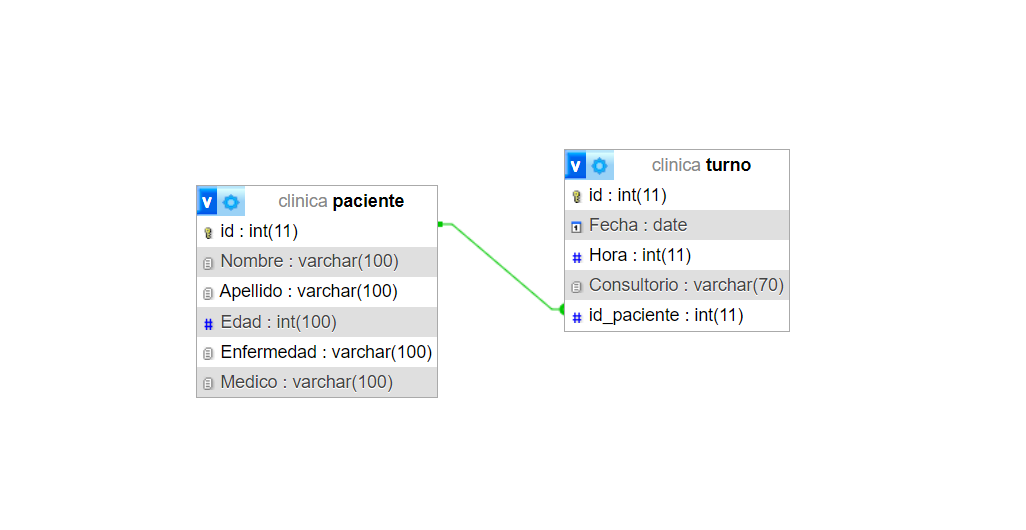
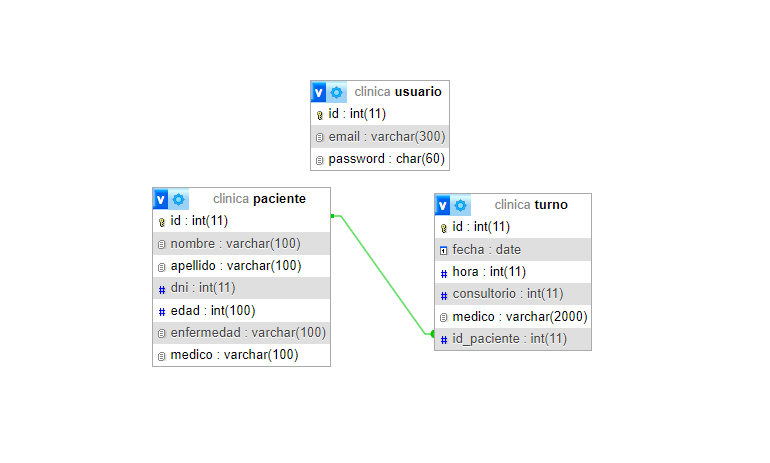
Implementación del auto-deploy + actualización del readme.

Changed region(s): [[0.187, 0.1512, 0.7792, 0.7862], [0.4987, 0.6048, 0.5299, 0.6652]]

diff --git a/app/models/modelDeploy.php b/app/models/modelDeploy.php
@@ -1,0 +1,105 @@
+<?php 
+require_once './config.php';
+
+abstract class modelDeploy {
+
+    protected $db;
+
+    public function __construct(){
+        $this->db = $this->db = new PDO(
+            "mysql:host=".MYSQL_HOST .";dbname=".MYSQL_DB.";charset=utf8", MYSQL_USER, MYSQL_PASS);
+            $this->_deployUser();
+            $this->_deployTurns();
+            $this->_deployCategory(); 
+    }
+
+    private function _deployUser() {
+        $query = $this->db->query("SHOW TABLES LIKE 'usuario'");
+        $tables = $query->fetchAll();
+
+        if (count($tables) == 0) {
+
+            $sql =<<<SQL
+
+            CREATE TABLE `usuario` (
+            `id` int(11) NOT NULL,
+            `email` varchar(300) NOT NULL,
+            `password` char(60) NOT NULL
+              PRIMARY KEY (`id`),
+              UNIQUE KEY `email` (`email`),
+              ) ENGINE=InnoDB DEFAULT CHARSET=utf8mb4 COLLATE=utf8mb4_general_ci;
+            SQL;
+
+            $this->db->query($sql);
+
+            $insertSql = "INSERT INTO usuario (`id`, `email`, `password`) VALUES (?, ?, ?)"; // chequear acá
+            $this->db->prepare($insertSql)->execute(['webadmin', '$2y$10$mrjZzr7CGZI7ckIaF4qWaubeg7QutszR6vQ91ZYA58Ruo79kk1ply']);
+        }
+    }
+
+    private function _deployTurns() {
+        $query = $this->db->query("SHOW TABLES LIKE 'turno'");
+        $tables = $query->fetchAll();
+
+        if (count($tables) == 0) {
+
+            $sql = <<<SQL
+
+            CREATE TABLE `turno` (
+            `id` int(11) NOT NULL,
+            `fecha` date NOT NULL,
+            `hora` int(11) NOT NULL,
+            `consultorio` int(11) NOT NULL,
+            `medico` varchar(2000) NOT NULL,
+            `id_paciente` int(11) NOT NULL,
+
+              PRIMARY KEY (`id`),
+              KEY `id_paciente` (`id_paciente`),
+              CONSTRAINT `fk_paciente` FOREIGN KEY (`id_paciente`) REFERENCES `id` (`id`) ON DELETE CASCADE
+              ) ENGINE=InnoDB DEFAULT CHARSET=utf8mb4 COLLATE=utf8mb4_general_ci;
+            SQL;
+            $this->db->query($sql);
+    
+            $insertSql = "INSERT INTO `turno` (`id`, `fecha`, `hora`, `consultorio`, `medico`, `id_paciente`) VALUES
+                        (1, '2024-09-27', 13, 3, 'Mariana Solis', 3),
+                        (2, '2024-09-28', 12, 2, 'Juan Carlos Gomez', 1),
+                        (3, '2024-09-30', 14, 1, 'Fausto Herrera', 4),
+                        (4, '2024-09-29', 11, 2, 'Mariana Solis', 2)";
+                        
+            $this->db->prepare($insertSql)->execute();
+        }
+    }
+
+    private function _deployCategory() {
+        $query = $this->db->query("SHOW TABLES LIKE 'paciente'");
+        $tables = $query->fetchAll();
+
+        if (count($tables) == 0) {
+
+            $sql = <<<SQL
+
+            CREATE TABLE `paciente` (
+            `id` int(11) NOT NULL,
+            `nombre` varchar(100) NOT NULL,
+            `apellido` varchar(100) NOT NULL,
+            `dni` int(11) NOT NULL,
+            `edad` int(100) NOT NULL,
+            `enfermedad` varchar(100) NOT NULL,
+            `medico` varchar(100) NOT NULL
+
+              PRIMARY KEY (`id`)
+            ) ENGINE=InnoDB DEFAULT CHARSET=utf8mb4 COLLATE=utf8mb4_general_ci;
+            SQL;
+    
+            $this->db->query($sql);
+    
+            $insertSql = "INSERT INTO `paciente` (`id`, `nombre`, `apellido`, `dni`, `edad`, `enfermedad`, `medico`) VALUES
+                        (1, 'Agustin', 'Ciantini', 1234567, 19, 'Apendicitis', 'Juan Carlos Gomez'),
+                        (2, 'Jazmin', 'Barragan', 1234568, 19, 'Fractura', 'Mariana Solis'),
+                        (3, 'Juan Pablo', 'Chiclana', 1234560, 19, 'Congestion', 'Mariana Solis'),
+                        (4, 'Francisco', 'Cocirio', 12345679, 18, 'Larinjitis', 'Fausto Herrera')";
+    
+            $this->db->prepare($insertSql)->execute();
+        }
+    }
+}

diff --git a/app/controllers/controllerTurns.php b/app/controllers/controllerTurns.php
@@ -3,6 +3,7 @@ require_once './app/models/modelTurns.php';
 require_once './app/views/viewTurns.php';
 require_once './app/models/modelCategory.php';
 require_once './app/views/viewCategory.php';
+require_once './app/models/modelDeploy.php';
 
 class controllerTurns{
     private $view;

diff --git a/app/models/modelCategory.php b/app/models/modelCategory.php
@@ -1,5 +1,9 @@
 <?php
+require_once './app/models/modelDeploy.php';
+require_once './config.php';
+
 class modelCategory{
+
     private $db;
     public function __construct(){
         $this->db = new PDO('mysql:host=localhost;dbname=clinica;charset=utf8', 'root', '');

diff --git a/app/controllers/controllerCategory.php b/app/controllers/controllerCategory.php
@@ -1,6 +1,7 @@
 <?php
 require_once './app/models/Modelcategory.php';
 require_once './app/views/viewCategory.php';
+require_once './app/models/modelDeploy.php';
 
 class controllerCategory{
     private $view;

diff --git a/app/views/viewAuth.php b/app/views/viewAuth.php
@@ -7,7 +7,4 @@ class AuthView {
         require './templates/login.phtml';
     }
 
-    public function showSignup($error = '') {
-        require './templates/form_signup.phtml';          //DUDA
-    }
 }

diff --git a/app/controllers/auth.controller.php b/app/controllers/auth.controller.php
@@ -1,6 +1,7 @@
 <?php
 require_once './app/models/modelUser.php';
 require_once './app/views/viewAuth.php';
+require_once './app/models/modelDeploy.php';
 
 class AuthController {
     private $model;

diff --git a/app/models/modelTurns.php b/app/models/modelTurns.php
@@ -1,4 +1,6 @@
 <?php
+require_once './app/models/modelDeploy.php';
+require_once './config.php';
 
 class modelTurns{
     private $db;

diff --git a/config.php b/config.php
@@ -1,0 +1,5 @@
+<?php
+const MYSQL_USER = 'root';
+const MYSQL_PASS = '';
+const MYSQL_DB = 'clinica';
+const MYSQL_HOST = 'localhost';

diff --git a/app/models/modelUser.php b/app/models/modelUser.php
@@ -1,4 +1,5 @@
 <?php
+require_once './app/models/modelDeploy.php';
 
 class UserModel {
     private $db;

diff --git a/README.md b/README.md
@@ -8,14 +8,14 @@
 
 Nuestra web tratará sobre un turnero de una clínica médica, que contará en su base de datos con dos tablas (turno y paciente) con una relación entre sí, mediante el id de ambos. Se podrán observar los turnos ya otorgados a su respectivo paciente junto a su médico asignado, además nuestra web permite gestionarlos (agregar, eliminar y editar).
 
-# Guía para cargar database:
+## Guía para cargar database:
 
-Para cargar nuestro sitio en un servidor con Apache o MySQL, primero, deberas cargar nuestra base de datos "clinica" en MySQL. Podes hacer esto importando el archivo .SQL a través de la interfaz de phpMyAdmin o mediante el comando mysql en la terminal.
+Para cargar nuestro sitio en un servidor Apache o MySQL, primero, deberas tener instalado XAMPP. Una vez descargado, tendrás que cargar nuestra base de datos "clinica" en phpMyAdmin (las tablas se crean automáticamente por la implementación del auto-deploy). En caso contrario, podras hacer esto importando el archivo .SQL a través de la interfaz de phpMyAdmin o mediante el comando mysql en la terminal.
 
-Una vez que la base de datos esté cargada en phpMyAdmin, coloca los archivos en la carpeta "htdocs" de tú Xampp y ingresa en la barra del navegador la siguiente urlg "http://localhost/la-clinica-web2-tudai/home".
+Una vez que la base de datos esté cargada en phpMyAdmin, coloca los archivos en la carpeta "htdocs" de tú XAMPP y ingresa en la barra del navegador la siguiente url "http://localhost/la-clinica-web2-tudai/home".
 
 ## ¿Cómo inicio sesión?
-Para poder iniciar sesión en nuestra página web, se necesitan las credenciales. Estos son los datos:
+Para iniciar sesión y poder realizar acciones dentro de nuestra página web, es necesario loguearse con las credenciales adecuadas. Los datos son:
 
 * Usuario: webadmin
 * Contraseña: admin
